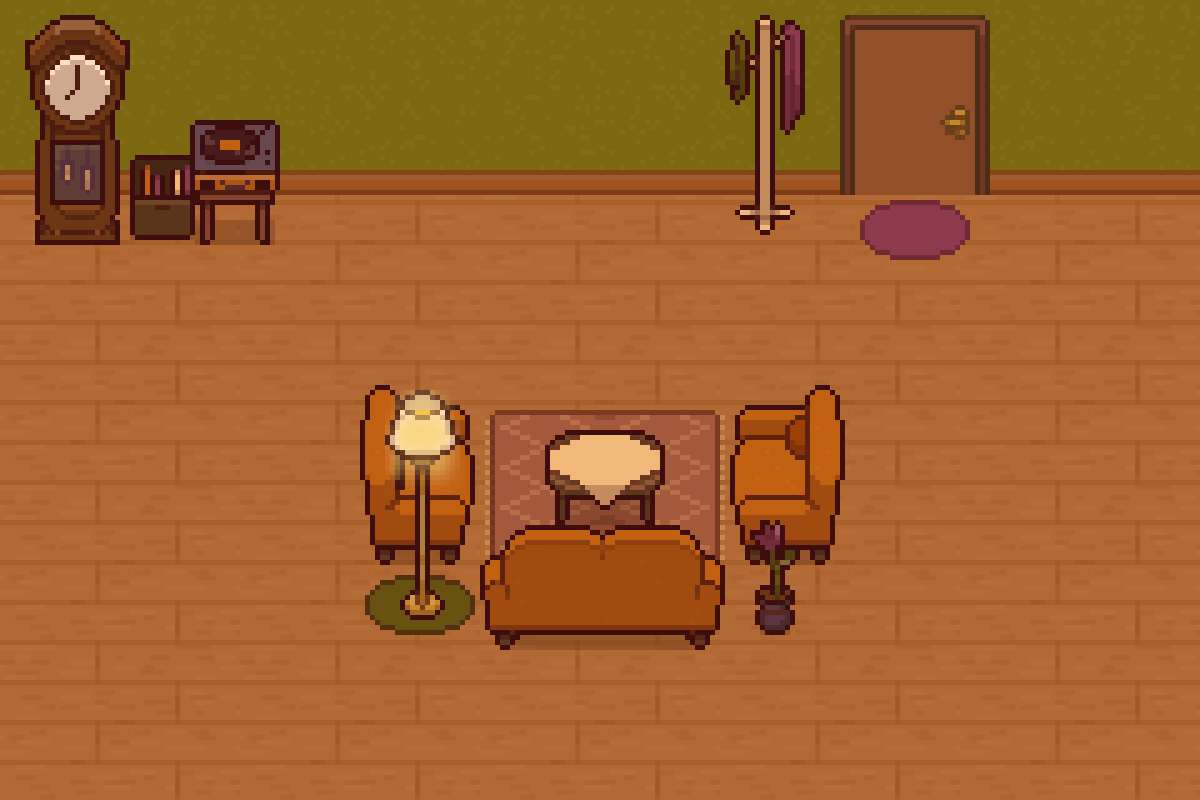
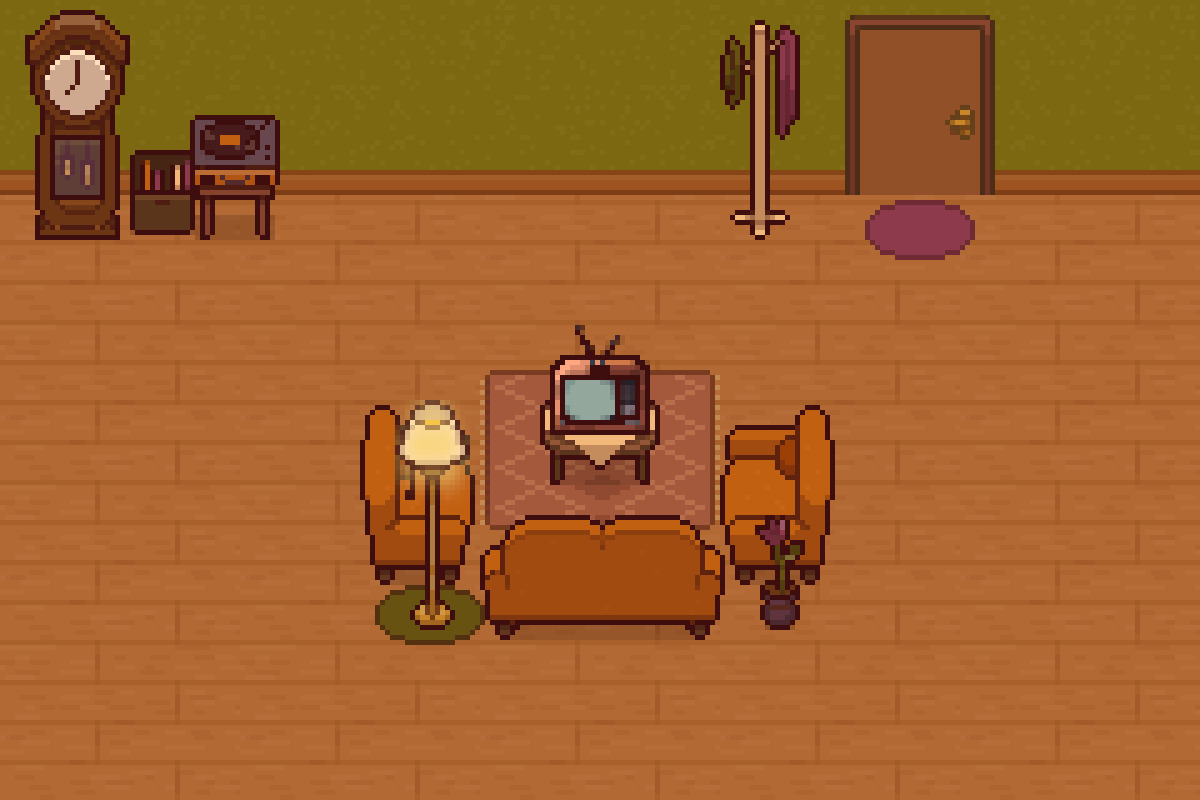
fix: adjusted livingRoom, generalized almost everything

diff --git a/Visualize/MenuScreen.py b/Visualize/MenuScreen.py
@@ -1,0 +1,162 @@
+import pygame
+import pygame.locals as pl
+from pygame_textinput import TextInputVisualizer, TextInputManager
+import numpy as np
+import cv2
+from Visualize.morph_image import blur_screen
+from Visualize.morph_image import morph_image
+from Visualize.morph_image import add_element
+
+FILENAME = "livingRoom_BG.png"
+
+# [PROTOTYPE]
+PARAMS = {
+    "resources": "Visualize/Resources/",
+    "resolution": (1200, 800),  # ratio 3:2
+    "cell": (40, 40)  # 12 cells column, 8 cells row
+}
+# [PROTOTYPE]
+WHITE = (200, 200, 200)
+
+
+def drawGrid(screen):
+    """
+    FOR FUCKING DEBUG THE GRID MAP
+    :param screen:
+    :return:
+    """
+    blockSize = PARAMS["cell"][0]  # Set the size of the grid block
+    for x in range(0, PARAMS["resolution"][0], blockSize):
+        for y in range(0, PARAMS["resolution"][1], blockSize):
+            rect = pygame.Rect(x, y, blockSize, blockSize)
+            pygame.draw.rect(screen, WHITE, rect, 1)
+
+
+# [PROTOTYPE]
+
+class MenuScreen:
+    """
+    This is a class to manage Login Screen Instance, (Pokémon theme)
+    """
+
+    def __init__(self, screen, res_cel, path_resources):
+        """
+        :param screen:
+        :param res_cel:
+        :param path_resources:
+        """
+        self.resolution, self.cell = res_cel
+        self.frame = morph_image(path_resources + FILENAME, self.resolution)
+        self.pth_re = path_resources
+        print(self.pth_re)
+        self.screen = screen
+        self.door_pos = {
+
+        }
+
+    def play(self, player):
+        """
+        Play the scene
+        :param player:
+        :return:
+        """
+
+        # Background and stuff go here
+        self.screen.blit(self.frame, (0, 0))
+        pygame.display.flip()
+        # drawGrid(screen=self.screen)
+
+        self.player = player
+        self.panel_fl = True  # CÁI NI Bị DOWN
+        self.screenCopy = self.screen.copy()
+        self.player.update(self.screenCopy)
+        # Add login panel background
+        self.blur = blur_screen(screen=self.screen.copy())
+
+        ratio = 0.6
+        panel_shape = self.resolution[0] * ratio, self.resolution[1] * ratio
+        login_panel = morph_image(self.pth_re + "login_box.png", panel_shape)
+        self.login_panel = add_element(self.blur, login_panel, (
+            (self.resolution[0] - panel_shape[0]) / 2, (self.resolution[1] - panel_shape[1]) / 2))
+        self.create_font()  # Create font for text input
+
+        running = True
+        while running:
+            events = pygame.event.get()
+            for event in events:
+                if event.type == pygame.QUIT:
+                    running = False
+                    # pygame.quit()
+                    return False  # Fucking transmit signal to another scene here, this is just a prototype
+                if event.type == pygame.KEYDOWN:
+                    pressed = event.key
+                    if self.player.handle_event(pressed):  # Handle interact from player
+                        pass
+                    if self.player.get_grid_pos() in self.door_pos:
+                        self.textinput_custom.update(events)
+                        self.toggle_panel(event, self.door_pos[self.player.get_grid_pos()])
+                        continue
+                    self.player.update(
+                        self.screenCopy)  # NEED TO OPTIMIZED, https://stackoverflow.com/questions/61399822/how-to-move-character-in-pygame-without-filling-background
+
+            # self.screen.blit(self.frame, (0, 0))
+            # pygame.display.flip()
+            # for key, val in kwargs:
+            #     screen.blit(val, (0, 0))
+            #     pygame.display.flip()
+            #     self.clock.tick(900)
+
+    def toggle_panel(self, event, name):
+        """
+        :param event:
+        :param name: to know whether if the player step into which door
+        :return:
+        """
+        if name:
+            self.player.deactivate(active=False)
+
+            if name == "Login":
+                username, pwd = self.login()
+            if name == "Exit":
+                # Play outro animation here
+                pygame.quit()
+                exit()
+            if name == "Register":
+                pass
+
+    def menu(self):
+        """
+        Login panel
+        """
+        if self.panel_fl == True:
+            self.textinput_custom.value = ""  # SUSSY FIRST TIME REMOVE CHARACTER FROM TEXT TO FUCKING AVOID INCONVENIENCE
+            self.panel_fl = False
+        self.player.update(self.login_panel)
+        self.screen.blit(self.textinput_custom.surface, (self.resolution[0] // 2, self.resolution[1] // 2 + 20))
+        pygame.display.flip()
+        # self.player.update(self.screen.copy())
+        # self.login_panel = self.screen.copy()
+        print(self.textinput_custom.value)
+        return "username", "password"
+
+    def register(self):
+        """
+        Register panel
+        :return: username and password
+        """
+        pass
+
+    def create_font(self):
+        # But more customization possible: Pass your own font object
+        font = pygame.font.Font(self.pth_re + "Fonts/PixeloidSans.ttf", 23)
+        # Create own manager with custom input validator
+        manager = TextInputManager(validator=lambda input: len(input) <= 10)
+        # Pass these to constructor
+        textinput_custom = TextInputVisualizer(manager=manager, font_object=font)
+
+        # Customize much more
+        textinput_custom.cursor_width = 4
+        textinput_custom.cursor_blink_interval = 400  # blinking interval in ms
+        textinput_custom.antialias = False
+        textinput_custom.font_color = (0, 85, 170)
+        self.textinput_custom = textinput_custom

diff --git a/Player.py b/Player.py
@@ -11,7 +11,7 @@ class Player:
     """
     This is a class to represent Player Instance
     """
-    def __init__(self, screen, res_cell, grid_map, current_scene):
+    def __init__(self, screen, res_cell, grid_map, current_scene, initial_pos):
 
         """
         :param screen:
@@ -19,19 +19,21 @@ class Player:
         :param grid_map:
         :param current_scene:
         """
-        self.avatar = morph_image("Visualize/Resources/" + AVATAR[0], res_cell[1])  # [PROTOTYPE]
+        self.avatar = morph_image("Visualize/Resources/" + AVATAR[0], res_cell[1][current_scene]) # [PROTOTYPE]
         self.active = True
         self.screen = screen
         self.grid_map = grid_map
         self.current_scene = current_scene
 
         resolution, cell = res_cell
-        self.ratio = (resolution[0] // cell[0], resolution[1] // cell[1])
+        self.resolution = resolution
+        self.cell = cell[current_scene]
+        self.ratio = (resolution[0] // cell[current_scene][0], resolution[1] // cell[current_scene][1])
 
-        self.grid_pos = (12, 10)  # [PROTOTYPE]
-        self.visual_pos = (self.grid_pos[0] * res_cell[1][0], self.grid_pos[1] * res_cell[1][1])
+        self.grid_pos = initial_pos  # [PROTOTYPE]
+        self.visual_pos = (self.grid_pos[0] * cell[current_scene][0], self.grid_pos[1] * cell[current_scene][1])
         self.grid_step = 1
-        self.visual_step = self.grid_step * res_cell[1][0]
+        self.visual_step = self.grid_step * cell[current_scene][0]
 
         self.grid_map.get_map(self.current_scene).get_grid()[self.grid_pos[1]][self.grid_pos[0]] = Gmo.PLAYER
 
@@ -51,16 +53,16 @@ class Player:
         # NEED OPTIMIZE HERE
         if key_pressed == pygame.K_RIGHT or key_pressed == pygame.K_d:
             self.move("right")
-            self.avatar = morph_image("Visualize/Resources/" + AVATAR[1])
+            self.avatar = morph_image("Visualize/Resources/" + AVATAR[1], resolution=self.cell)
         if key_pressed == pygame.K_LEFT or key_pressed == pygame.K_a:
             self.move("left")
-            self.avatar = morph_image("Visualize/Resources/" + AVATAR[2])
+            self.avatar = morph_image("Visualize/Resources/" + AVATAR[2], resolution=self.cell)
         if key_pressed == pygame.K_DOWN or key_pressed == pygame.K_s:
             self.move("down")
-            self.avatar = morph_image("Visualize/Resources/" + AVATAR[0])
+            self.avatar = morph_image("Visualize/Resources/" + AVATAR[0], resolution=self.cell)
         if key_pressed == pygame.K_UP or key_pressed == pygame.K_w:
             self.move("up")
-            self.avatar = morph_image("Visualize/Resources/" + AVATAR[3])
+            self.avatar = morph_image("Visualize/Resources/" + AVATAR[3], resolution=self.cell)
         if key_pressed == pygame.K_e:
             self.interact()
             return True

diff --git a/GameController.py b/GameController.py
@@ -16,8 +16,9 @@ from enum import Enum
 PARAMS = {
     "resources": "Visualize/Resources/",
     "resolution": (1200, 800),  # ratio 3:2
-    "cell": (40, 40),  # 12 cells column, 8 cells row
-    "scenes": ["Welcome", "Login", "Menu", "Play", "Leaderboard", "Settings"]
+    "cell": {"Login": (40, 40), "Menu": (80, 80), "Play": (80, 80), "Leaderboard": (80, 80), "Settings": (80, 80)}, # 12 cells column, 8 cells row
+    "scenes": ["Login", "Menu", "Play", "Leaderboard", "Settings"],
+    "initial_pos": {"Login": (12, 12), "Menu": (11, 2), "Play": (0, 0), "Leaderboard": (0, 0), "Settings": (0, 0)}  # need adjusting
 }
 FPS = 60
 
@@ -29,7 +30,8 @@ class GameController:
     def __init__(self):
         pygame.init()
         pygame.key.set_repeat(200, 125)
-        initial_scene = "Login"
+        # initial_scene = "Login"
+        initial_scene = "Menu"
         self.game_state_manager = GameStateManager(initial_scene)  # [PROTOTYPE]
         self.clock = pygame.time.Clock()  # Define a variable to control the main loop
         self.screen = pygame.display.set_mode(
@@ -40,7 +42,7 @@ class GameController:
                                    list_maps=PARAMS["scenes"])  # [PROTOTYPE]
 
         # INSTANTIATE PLAYER
-        self.player = Player(self.screen, (PARAMS["resolution"], PARAMS["cell"]), grid_map=self.grid_map, current_scene=initial_scene)  # [PROTOTYPE]
+        self.player = Player(self.screen, (PARAMS["resolution"], PARAMS["cell"]), grid_map=self.grid_map, current_scene=initial_scene, initial_pos=PARAMS["initial_pos"][initial_scene])  # [PROTOTYPE]
 
         # INSTANTIATE VISUALIZER
         self.visualizer = Visualizer(PARAMS, self.screen, self.player)  # [PROTOTYPE]

diff --git a/GridMap.py b/GridMap.py
@@ -28,7 +28,7 @@ class MapManager:
         self.list_maps = kwargs["list_maps"]
         self.map_grids = {}
         for item in self.list_maps:
-            self.map_grids[item] = GridMap(name=item, resolution=kwargs["resolution"], cell=kwargs["cell"])
+            self.map_grids[item] = GridMap(name=item, resolution=kwargs["resolution"], cell=kwargs["cell"][item])
         self.init_preset()
         print(self.map_grids["Login"].get_grid())
 
@@ -79,6 +79,22 @@ class MapManager:
             Initialize Menu Scene
             :return:
             """
+
+            grid = self.map_grids["Menu"].get_grid()
+            # DECORATES
+            grid[:3, :4] = [[GridMapObject.WALL]] # clock,etc
+            grid[2, -6] = GridMapObject.WALL # cloth hanger
+            grid[4, 6:9] = [GridMapObject.WALL] # TV
+            grid[5:8, 4:11] = [[GridMapObject.WALL]]
+            grid[7, 10] = GridMapObject.FREE
+
+            # WALL
+            grid[:2, :] = [[GridMapObject.WALL]]
+
+            # MAIN DOOR
+            grid[1, -4] = [GridMapObject.DOOR]
+
+
             pass
 
         def playScene():

diff --git a/Visualize/Visualizer.py b/Visualize/Visualizer.py
@@ -2,6 +2,7 @@ from typing import Tuple, List
 import pygame
 import cv2
 from Visualize.LoginScreen import LoginScreen as login
+from Visualize.MenuScreen import MenuScreen as menu
 
 class Visualizer:
     def __init__(self, params, screen, player):
@@ -28,7 +29,7 @@ class Visualizer:
         self.scenes_collection = {
             "Login": login(self.screen, (self.resolution, self.cell), self.pth_re),
             "Register": None,   # Chung với Login
-            "Menu": None,
+            "Menu": menu(self.screen, (self.resolution, self.cell), self.pth_re),
             "Play": None,   # Chọn mode
             "Leaderboard": None,
             "Settings": None,
